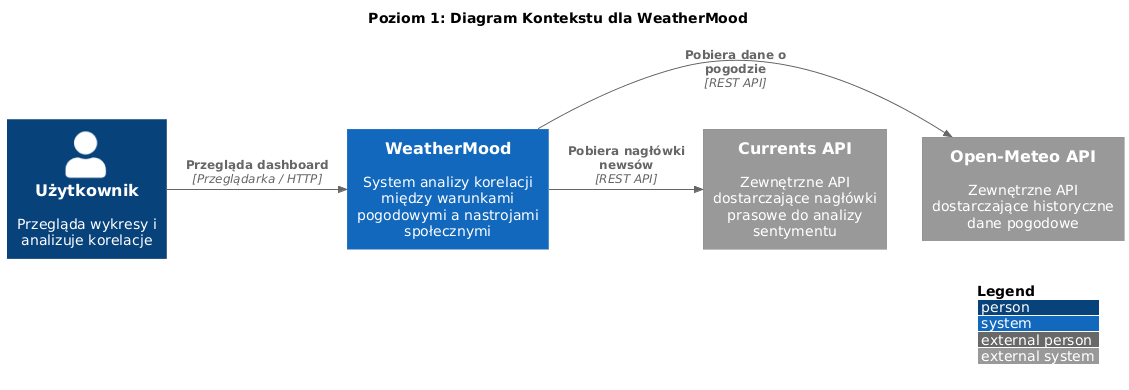
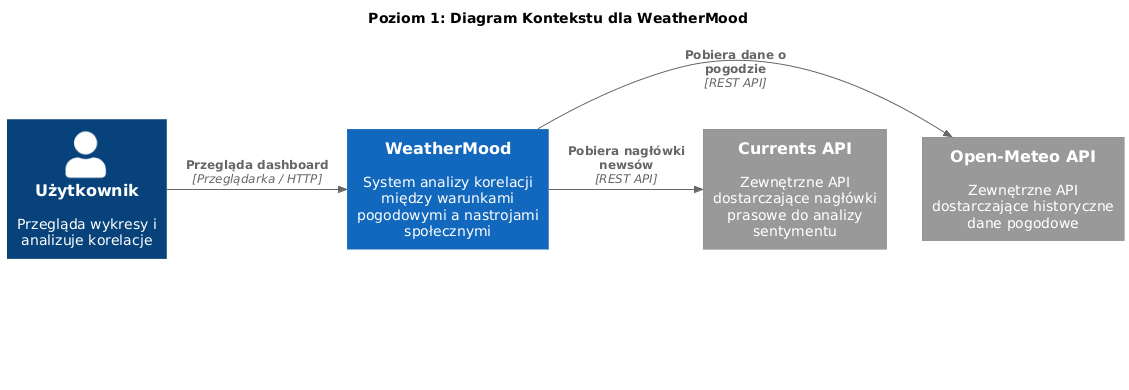
fix: minor graphic and visual changes

Changed region(s): [[0.868, 0.7385, 0.992, 0.9538]]

diff --git a/README.md b/README.md
@@ -216,6 +216,3 @@ Logi zapisywane do `logs/scheduler.log`.
 
 ---
 
-## Licencja
-
-MIT
